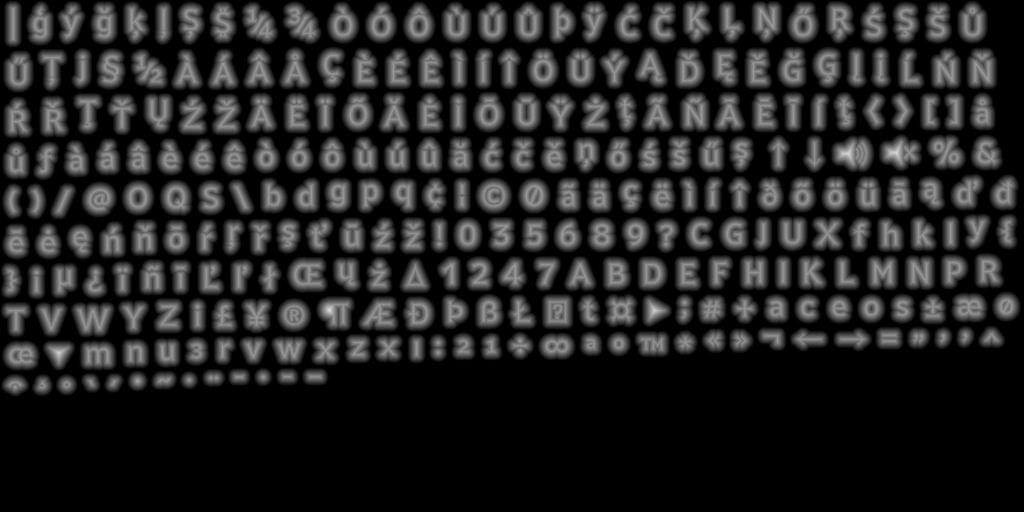
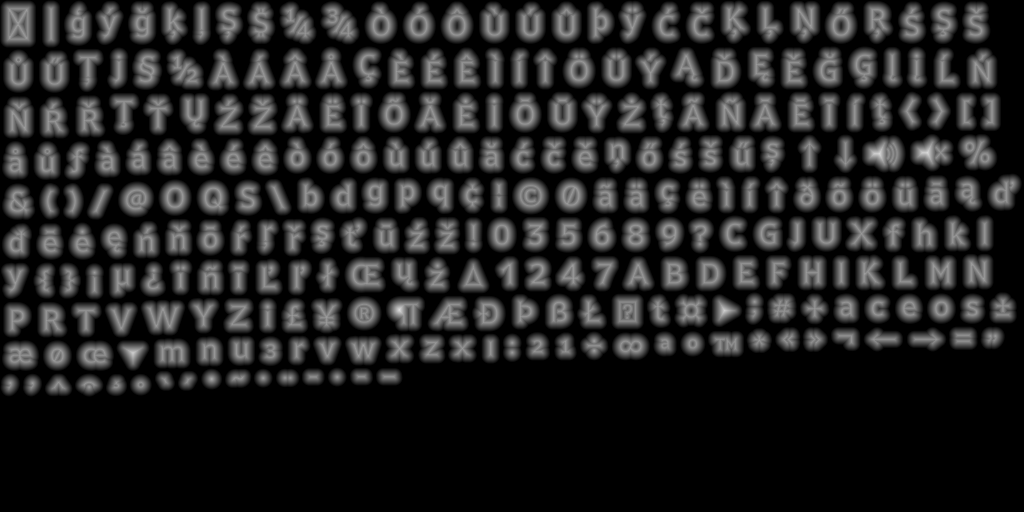
Apply GLOV.js fixes to deal with most engine hacks (just vmath -> Float64 remaining here)

diff --git a/src/glov/client/ui.js b/src/glov/client/ui.js
@@ -47,6 +47,7 @@ const { linkTick } = require('./link.js');
 const { getStringFromLocalizable } = require('./localization.js');
 const { abs, floor, max, min, round, sqrt } = Math;
 const { scrollAreaSetPixelScale } = require('./scroll_area.js');
+const { sliderSetDefaultShrink } = require('./slider.js');
 const { soundLoad, soundPlay } = require('./sound.js');
 const {
   SPOT_DEFAULT_BUTTON,
@@ -379,6 +380,9 @@ function uiStartup(param) {
 
   if (ui_sprites.color_set_shades) {
     colorSetSetShades(...ui_sprites.color_set_shades);
+  }
+  if (ui_sprites.slider_params) {
+    sliderSetDefaultShrink(...ui_sprites.slider_params);
   }
 
   if (sprites.button_rollover && color_set_shades[1] !== 1) {
@@ -871,7 +875,7 @@ export function buttonTextDraw(param, state, focused) {
   let hpad = min(param.font_height * 0.25, param.w * 0.1);
   font.drawSizedAligned(
     focused ? font_style_focused : font_style_normal,
-    param.x + hpad + 1, param.y + 1, param.z + 0.1,
+    param.x + hpad, param.y, param.z + 0.1,
     param.font_height, param.align || glov_font.ALIGN.HVCENTERFIT, param.w - hpad * 2, param.h, param.text);
   profilerStopFunc();
 }

diff --git a/src/glov/client/slider.js b/src/glov/client/slider.js
@@ -23,9 +23,11 @@ const SPOT_DEFAULT_SLIDER = {
 
 let slider_default_vshrink = 1.0;
 let slider_default_handle_shrink = 1.0;
-export function sliderSetDefaultShrink(vshrink, handle_shrink) {
+let slider_default_inset = 0.0;
+export function sliderSetDefaultShrink(vshrink, handle_shrink, slider_inset) {
   slider_default_vshrink = vshrink;
   slider_default_handle_shrink = handle_shrink;
+  slider_default_inset = slider_inset || 0;
 }
 const color_slider_handle = vec4(1,1,1,1);
 const color_slider_handle_grab = vec4(0.5,0.5,0.5,1);
@@ -59,7 +61,7 @@ export function slider(value, param) {
 
   slider_dragging = false;
 
-  let shrinkdiff = handle_shrink - vshrink + 0.4;
+  let shrinkdiff = handle_shrink - vshrink + slider_default_inset;
   drawHBox({
     x: param.x + param.h * shrinkdiff/2,
     y: param.y + param.h * (1 - vshrink)/2,

diff --git a/src/glov/client/font.js b/src/glov/client/font.js
@@ -407,7 +407,7 @@ GlovFont.prototype.drawSizedAligned = function (style, x, y, z, size, align, w, 
       case ALIGN.HCENTER:
         x += (w - width) * 0.5;
         if (this.integral) {
-          x |= 0;
+          x = round(x);
         }
         break;
       case ALIGN.HRIGHT:
@@ -419,7 +419,7 @@ GlovFont.prototype.drawSizedAligned = function (style, x, y, z, size, align, w, 
     case ALIGN.VCENTER:
       y += (h - y_size) * 0.5;
       if (this.integral) {
-        y |= 0;
+        y = round(y);
       }
       break;
     case ALIGN.VBOTTOM:

diff --git a/src/glov/client/ui.d.ts b/src/glov/client/ui.d.ts
@@ -356,6 +356,7 @@ export function uiSetFontStyleFocused(new_style: FontStyle): void;
 
 type UISpriteSet = {
   color_set_shades?: [number, number, number];
+  slider_params?: [number, number, number];
 
   button?: UISpriteDef;
   button_rollover?: UISpriteDef;

diff --git a/src/glov/client/sprite_sets.js b/src/glov/client/sprite_sets.js
@@ -9,6 +9,7 @@ const sprite_sets = {
   },
   pixely: {
     color_set_shades: [0.8, 0.7, 0.4],
+    slider_params: [1, 1, 0.3],
 
     button: { name: 'pixely/button', ws: [4, 5, 4], hs: [13] },
     button_rollover: null,
